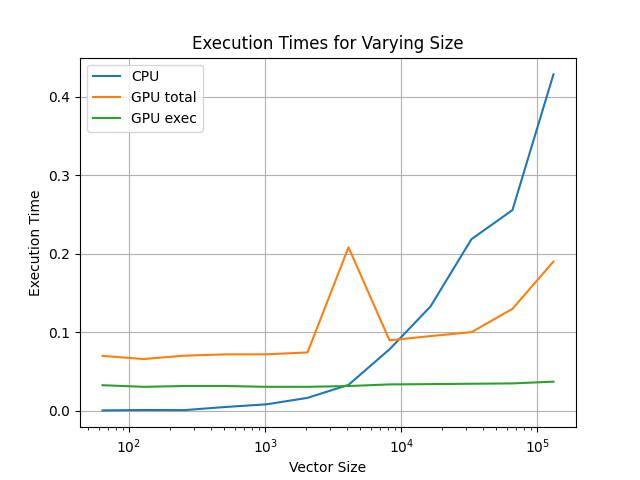
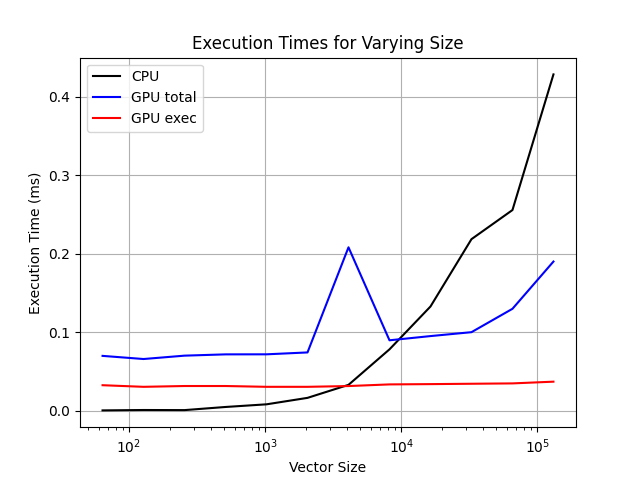
Fixed Figures

diff --git a/GPU/SAXPY/Dot_Product/graph.py b/GPU/SAXPY/Dot_Product/graph.py
@@ -22,8 +22,8 @@ data=pd.read_csv('my_file.csv')
 size=data['Size'].to_numpy()
 CPU=data['CPU Exec time (ms)'].to_numpy()
 GPU_wo_Mem=data['GPU Exec time (ms)'].to_numpy()
-DH=data['Memory Transfer (D->H)'].to_numpy()
-HD=data['Memory Transfer (H->D)'].to_numpy()
+DH=data['Memory Transfer (Device to Host)(ms)'].to_numpy()
+HD=data['Memory Transfer (Host to Device)(ms)'].to_numpy()
 GPU_Mem=GPU_wo_Mem+DH+HD
 SU_Mem=np.divide(CPU,GPU_Mem)
 SU_wo_Mem=np.divide(CPU,GPU_wo_Mem)
@@ -31,21 +31,21 @@ through=data['Throughput (GB/s)'].to_numpy()
 print(through)
 
 fig, (ax1)= plt.subplots(1,1)
-ax1.plot(size,CPU, label='CPU')
-ax1.plot(size,GPU_Mem, label='GPU total')
-ax1.plot(size,GPU_wo_Mem, label='GPU exec')
+ax1.plot(size,CPU, 'k',label='CPU')
+ax1.plot(size,GPU_Mem, 'b',label='GPU total')
+ax1.plot(size,GPU_wo_Mem, 'r',label='GPU exec')
 ax1.set_xscale("log")
 ax1.grid()
 ax1.legend()
 ax1.set_xlabel('Vector Size')
-ax1.set_ylabel('Execution Time')
+ax1.set_ylabel('Execution Time (ms)')
 ax1.set_title('Execution Times for Varying Size')
 plt.savefig('fig_1.png')
 plt.show()
 
 fig, (ax3)= plt.subplots(1,1)
-ax3.plot(size,SU_Mem, label='GPU total')
-ax3.plot(size,SU_wo_Mem, label='GPU exec')
+ax3.plot(size,SU_Mem,'b', label='GPU total')
+ax3.plot(size,SU_wo_Mem,'k', label='GPU exec')
 ax3.set_xscale("log")
 ax3.grid()
 ax3.legend()

diff --git a/GPU/SAXPY/L_2_Norm/graph.py b/GPU/SAXPY/L_2_Norm/graph.py
@@ -22,8 +22,8 @@ data=pd.read_csv('my_file.csv')
 size=data['Size'].to_numpy()
 CPU=data['CPU Exec time (ms)'].to_numpy()
 GPU_wo_Mem=data['GPU Exec time (ms)'].to_numpy()
-DH=data['Memory Transfer (D->H)'].to_numpy()
-HD=data['Memory Transfer (H->D)'].to_numpy()
+DH=data['Memory Transfer (D->H)(ms)'].to_numpy()
+HD=data['Memory Transfer (H->D)(ms)'].to_numpy()
 GPU_Mem=GPU_wo_Mem+DH+HD
 SU_Mem=np.divide(CPU,GPU_Mem)
 SU_wo_Mem=np.divide(CPU,GPU_wo_Mem)
@@ -31,21 +31,21 @@ through=data['Throughput (GB/s)'].to_numpy()
 print(through)
 
 fig, (ax1)= plt.subplots(1,1)
-ax1.plot(size,CPU, label='CPU')
-ax1.plot(size,GPU_Mem, label='GPU total')
-ax1.plot(size,GPU_wo_Mem, label='GPU exec')
+ax1.plot(size,CPU, 'k',label='CPU')
+ax1.plot(size,GPU_Mem, 'b',label='GPU total')
+ax1.plot(size,GPU_wo_Mem,'r', label='GPU exec')
 ax1.set_xscale("log")
 ax1.grid()
 ax1.legend()
 ax1.set_xlabel('Vector Size')
-ax1.set_ylabel('Execution Time')
+ax1.set_ylabel('Execution Time (ms)')
 ax1.set_title('Execution Times for Varying Size')
 plt.savefig('fig_1.png')
 plt.show()
 
 fig, (ax3)= plt.subplots(1,1)
-ax3.plot(size,SU_Mem, label='GPU total')
-ax3.plot(size,SU_wo_Mem, label='GPU exec')
+ax3.plot(size,SU_Mem,'b', label='GPU total')
+ax3.plot(size,SU_wo_Mem,'r', label='GPU exec')
 ax3.set_xscale("log")
 ax3.grid()
 ax3.legend()

diff --git a/GPU/SAXPY/CG/graph.py b/GPU/SAXPY/CG/graph.py
@@ -38,7 +38,7 @@ ax1.set_xscale("log")
 ax1.grid()
 ax1.legend()
 ax1.set_xlabel('Vector Size')
-ax1.set_ylabel('Execution Time')
+ax1.set_ylabel('Execution Time (ms)')
 ax1.set_title('Execution Times for Varying Size')
 plt.savefig('fig_1.png')
 plt.show()

diff --git a/GPU/SAXPY/Dot_Product/README.md b/GPU/SAXPY/Dot_Product/README.md
@@ -13,7 +13,5 @@
 |65536| .255775 | .035072 | .078528 | .016448 | 7.293| 5.5203 |
 |131072| .428459 | .03728 | .137888 | .01504 | 11.493| 6.857 |
 
-![fig_1](https://user-images.githubusercontent.com/84815326/226651991-0fa9ea7a-1ab3-4db9-b88c-61e10a6dc82e.png)
-![fig_2](https://user-images.githubusercontent.com/84815326/226651993-4a29ca05-cbfc-4237-a383-e47dcda8438c.png)
-![fig_3](https://user-images.githubusercontent.com/84815326/226651997-a093adcb-edd9-4af6-92bd-08dd3121643b.png)
+
 

diff --git a/GPU/SAXPY/L_2_Norm/README.md b/GPU/SAXPY/L_2_Norm/README.md
@@ -14,6 +14,4 @@
 |131072| 1.0274 | .03729 | .07028 | .01529 | 27.55| 6.1285 |
 
 
-![fig_1](https://user-images.githubusercontent.com/84815326/226651840-0589e108-df50-4552-88d6-cc4ddc9746c4.png)
-![fig_2](https://user-images.githubusercontent.com/84815326/226651844-6d0a0afe-196b-47de-b411-feeb282f46ea.png)
-![fig_3](https://user-images.githubusercontent.com/84815326/226651845-3921b19e-806b-411d-9f8e-fa625c0fe47a.png)
+

diff --git a/GPU/SAXPY/CG/README.md b/GPU/SAXPY/CG/README.md
@@ -14,6 +14,4 @@
 
 
 
-![fig_1](https://user-images.githubusercontent.com/84815326/230192225-d4999739-82e7-43c3-bb52-7d2592b9fb4c.png)
-![fig_2](https://user-images.githubusercontent.com/84815326/230192232-5ac2e8d9-2a70-4c54-ad8f-685518449f63.png)
-![fig_3](https://user-images.githubusercontent.com/84815326/230192234-15308f44-6dc6-46d9-af0f-710a4ec6d240.png)
+
